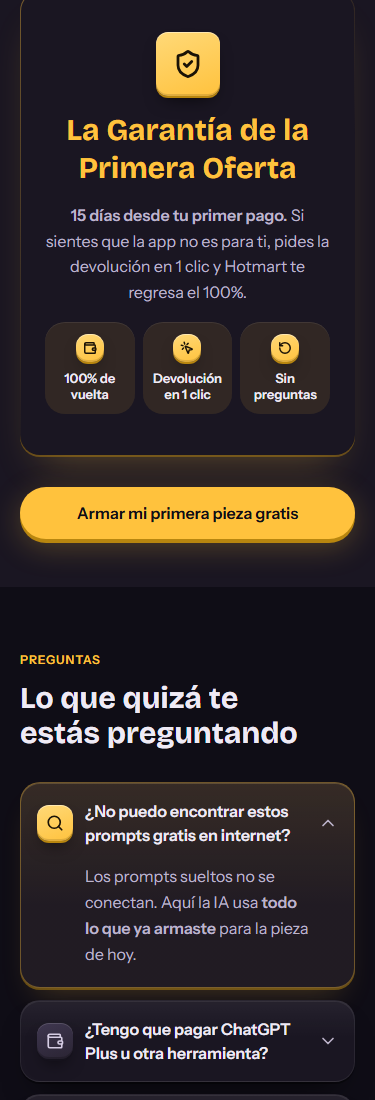
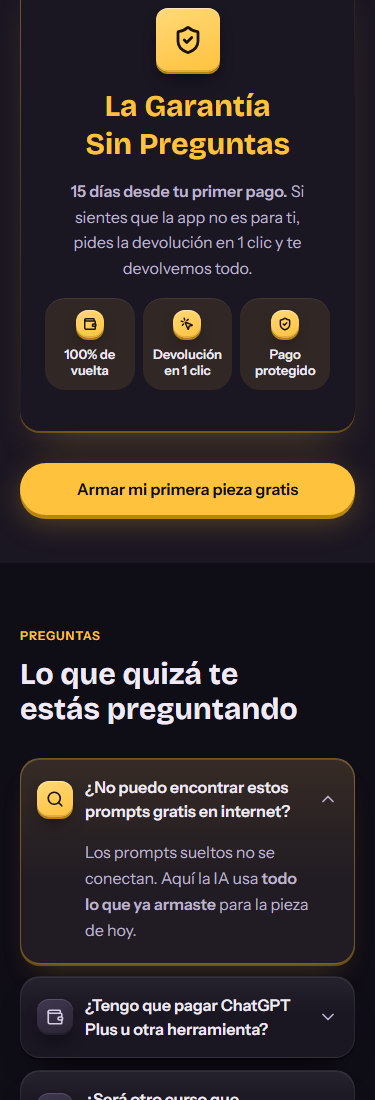
feat(landing): La Garantía Sin Preguntas + ancla y sellos sin repetición

diff --git a/app/page.tsx b/app/page.tsx
@@ -18,7 +18,6 @@ import {
   Moon,
   MousePointerClick,
   Puzzle,
-  RotateCcw,
   Search,
   ShieldCheck,
   Sprout,
@@ -152,7 +151,7 @@ export default function PaginaDeVentas() {
         stack={{
           lineas: [{ resultado: 'Mes a mes', valor: '$120' }],
           totalTachado: '$120',
-          nota: 'Con el anual: $79.99',
+          nota: 'Anual: $79.99',
         }}
         anual={{
           nombre: 'Anual',
@@ -177,12 +176,12 @@ export default function PaginaDeVentas() {
       />
 
       <Garantia
-        nombre="La Garantía de la Primera Oferta"
-        condicionMarked="[b]15 días desde tu primer pago.[/b] Si sientes que la app no es para ti, pides la devolución en 1 clic y Hotmart te regresa el 100%."
+        nombre="La Garantía Sin Preguntas"
+        condicionMarked="[b]15 días desde tu primer pago.[/b] Si sientes que la app no es para ti, pides la devolución en 1 clic y te devolvemos todo."
         sellos={[
           { icon: Wallet, texto: '100% de vuelta' },
           { icon: MousePointerClick, texto: 'Devolución en 1 clic' },
-          { icon: RotateCcw, texto: 'Sin preguntas' },
+          { icon: ShieldCheck, texto: 'Pago protegido' },
         ]}
         cta={{ label: CTA_LABEL, href: CTA_HREF }}
       />
@@ -234,8 +233,8 @@ export default function PaginaDeVentas() {
         futurePacingMarked="Abres Mi Empresa y ahí está: tu oferta, tu nombre, tu precio y tus textos. Solo falta lanzar."
         ctaLabel={CTA_LABEL}
         ctaHref={CTA_HREF}
-        recap="7 días gratis · Garantía de la Primera Oferta"
-        psMarked="PS: EMPRESAI convierte tu idea en un negocio listo en 30 días con el Método Pieza a Pieza. Entras con 7 días gratis y la Garantía de la Primera Oferta."
+        recap="7 días gratis · Garantía Sin Preguntas"
+        psMarked="PS: EMPRESAI convierte tu idea en un negocio listo en 30 días con el Método Pieza a Pieza. Entras con 7 días gratis y la Garantía Sin Preguntas."
       />
 
       <FooterLegal

diff --git a/app/reembolsos/page.tsx b/app/reembolsos/page.tsx
@@ -8,7 +8,7 @@ export default function Reembolsos() {
   return (
     <PaginaLegal
       titulo="Política de Reembolsos"
-      resumen="La Garantía de la Primera Oferta: 15 días desde tu primer pago para pedir el 100% de tu dinero, sin preguntas."
+      resumen="La Garantía Sin Preguntas: 15 días desde tu primer pago para pedir el 100% de tu dinero, sin preguntas."
     >
       <section>
         <h2>1. Prueba gratis</h2>
@@ -19,7 +19,7 @@ export default function Reembolsos() {
       </section>
 
       <section>
-        <h2>2. La Garantía de la Primera Oferta ({PRECIOS.diasGarantia} días)</h2>
+        <h2>2. La Garantía Sin Preguntas ({PRECIOS.diasGarantia} días)</h2>
         <p>
           Tienes {PRECIOS.diasGarantia} días de garantía de devolución a partir de tu primer pago. Si durante los primeros{' '}
           {PRECIOS.diasGarantia} días pagados sientes que la app no es para ti, pides la devolución en 1 clic y Hotmart te

diff --git a/components/landing/Oferta.tsx b/components/landing/Oferta.tsx
@@ -123,10 +123,13 @@ export function Oferta({
             variants={item}
             className="tarjeta-relieve mx-auto mt-8 max-w-[560px] rounded-[var(--radius-card)] px-5 py-4 text-center text-[16px] text-[var(--text-secondary)]"
           >
-            {stack.lineas[0]?.resultado}: <span className="tabular-nums line-through">{stack.totalTachado}</span> al año
+            <span className="whitespace-nowrap">
+              {stack.lineas[0]?.resultado}: <span className="tabular-nums line-through">{stack.totalTachado}</span>/año
+            </span>
             {stack.nota && (
               <>
-                {' · '}
+                {' '}
+                <span aria-hidden="true">·</span>{' '}
                 <span className="font-semibold whitespace-nowrap text-[var(--text-primary)]">{stack.nota}</span>
               </>
             )}

diff --git a/docs/copy/landing.md b/docs/copy/landing.md
@@ -66,7 +66,7 @@
 
 ## 6. OFERTA (FICHA-MERCADO: $9.99/mes · $79.99/año · trial 7 días)
 - título: `Empieza gratis. Sigue por [acento]$0.22 al día[/acento]` (7)
-- ancla de UNA línea (sin check ni "Valor total"): `Mes a mes: ~~$120~~ al año · Con el anual: $79.99`
+- ancla de UNA línea (sin check ni "Valor total"): `Mes a mes: ~~$120~~/año · Anual: $79.99`
 - features anual: `El Método Pieza a Pieza: una misión de 5 minutos al día` · `La IA arma cada pieza con tu negocio` · `Todo guardado en Mi Empresa, listo para descargar` · `Nuevas rutas cada mes después del día 30`
 - features mensual: `Todo lo del plan anual` · `Pagas mes a mes` · `Cancelas en 1 toque, cuando quieras`
 - microcopy de compra (objeción #5 + VoC "al mes te sorprenden"): `Pagas seguro por Hotmart · te avisamos antes del primer cobro · cancelas en 1 toque`
@@ -75,9 +75,9 @@
 - mensual: $9.99/mes · `menos de $0.34 al día`
 
 ## 7. GARANTÍA
-- sellos: `100% de vuelta` · `Devolución en 1 clic` · `Sin preguntas`
-- nombre: `La Garantía de la Primera Oferta` (título; en medio de frase va en minúscula)
-- condición (TEXTO DE LA DUEÑA 2026-10-02, cuenta desde el PRIMER PAGO — tras los 7 días gratis): `[b]15 días desde tu primer pago.[/b] Si sientes que la app no es para ti, pides la devolución en 1 clic y Hotmart te regresa el 100%.`
+- sellos: `100% de vuelta` · `Devolución en 1 clic` · `Pago protegido`
+- nombre: `La Garantía Sin Preguntas` (elegido por la dueña 2026-10-02; reemplaza "de la Primera Oferta", que venía de la condición vieja)
+- condición (TEXTO DE LA DUEÑA 2026-10-02, cuenta desde el PRIMER PAGO — tras los 7 días gratis): `[b]15 días desde tu primer pago.[/b] Si sientes que la app no es para ti, pides la devolución en 1 clic y te devolvemos todo.`
 - piso legal: (quitado a pedido de la dueña 2026-10-02) (⚠ configurar Hotmart a 15 días en Sesión 6 ANTES de publicar)
 
 ## 8. FAQ (objeciones de la ficha, en orden de fuerza)
@@ -91,8 +91,8 @@
 ## 9. CTA FINAL
 - h2: `Imagina tu [acento]día 30[/acento] con todo listo` (7)
 - future pacing: `Abres Mi Empresa y ahí está: tu oferta, tu nombre, tu precio y tus textos. Solo falta lanzar.` (18)
-- recap: `7 días gratis · Garantía de la Primera Oferta`
-- PS: `PS: EMPRESAI convierte tu idea en un negocio listo en 30 días con el Método Pieza a Pieza. Entras con 7 días gratis y la Garantía de la Primera Oferta.` (29 — recortado a <200 caracteres por el presupuesto de 52)
+- recap: `7 días gratis · Garantía Sin Preguntas`
+- PS: `PS: EMPRESAI convierte tu idea en un negocio listo en 30 días con el Método Pieza a Pieza. Entras con 7 días gratis y la Garantía Sin Preguntas.` (29 — recortado a <200 caracteres por el presupuesto de 52)
 
 ## 10. FOOTER
 - Privacidad · Términos · Reembolsos · Aviso de IA · soporte (⚠ email provisional hasta tener dominio)

diff --git a/ESTADO.md b/ESTADO.md
@@ -122,7 +122,7 @@ Monetización: suscripción (mensual + anual) con prueba corta. Venta por Hotmar
 - Borrar mis datos: endpoint que borra business_profile + pieces + progress + cuenta (promesa "Tu idea es tuya").
 
 ## Pendientes / ⚠
-- Garantía: el NOMBRE "Garantía de la Primera Oferta" quedó de la condición vieja → la dueña elige nuevo nombre (pregunta enviada 2026-10-02). Verificar en Hotmart que la devolución sea realmente "1 clic / sin preguntas" antes de publicar (si no, "Devolución con 1 solicitud").
+- (hecho 2026-10-06) Nombre de la garantía elegido por la dueña: "La Garantía Sin Preguntas". ⚠ Verificar en Hotmart que la devolución sea realmente "1 clic" antes de publicar (si no, "Devolución con 1 solicitud").
 - Landing, retoques no bloqueantes (hacer en la re-revisión de Sesión 5 con capturas reales): ancla de la oferta sin "·" colgando ("Mes a mes: $120/año · Anual: $79.99") · quitar "cancelas en 1 toque" del microcopy bajo planes (aparece 3 veces) · escena/ml-1 ya hechos.
 - (hecho 2026-10-02) Garantía definida por la dueña: 15 días desde el PRIMER PAGO, devolución del 100% en 1 clic vía Hotmart, sin preguntas — aplicada en landing, microcopy y /reembolsos. ⚠ Configurar Hotmart con garantía de 15 días (Sesión 6).
 - ⚠ Garantía: la condición ("si la IA no te entrega tu oferta…") contradice el sello "Sin preguntas" — decidir incondicional vs condicional y alinear sellos + /reembolsos (gate 61).
@@ -137,6 +137,7 @@ Monetización: suscripción (mensual + anual) con prueba corta. Venta por Hotmar
 - Verificar en Sesión 6: período gratuito Hotmart para app externa · checkout real (medios de pago) · términos de datos del proveedor de IA.
 
 ## Problemas conocidos
+- landing veredicto: re-confirmación EN CURSO tras renombrar la garantía (2026-10-06, capturas 375x7830).
 - Garantía: decidida INCONDICIONAL (15 días, "o no es para ti") — coherente con sellos y /reembolsos (2026-10-02).
 - FICHA-MODELO.md en BORRADOR (modelo: Coursiv). Falta 2ª señal de revenue (Meta Ads Library / TrustMRR) y el plano del flujo de entrada de Coursiv (Meta Ads Library y Mobbin requieren navegador; se intentará en Sesión 2 con el navegador integrado). No bloquea diseño/arquitectura.
 - audit-conversion.sh: se excluyó `plantillas-codigo/` en scripts/lib-conversion.mjs (mezclaba tokens de plantilla con los del proyecto → contrastes falsos). Hallazgos restantes son FALSOS POSITIVOS sobre código del kit (cuenta clases/comentarios como copy; no detecta hairline/radial armados con strings concatenados; "animate" como voseo; ✓ en un comentario). Verificado visualmente y por el revisor. Antes: escaneaba `plantillas-codigo/` (plantillas de referencia del SO, no son la app) → sus hallazgos ahí son ruido. Al construir, juzgar solo los hallazgos en los archivos de la app.
